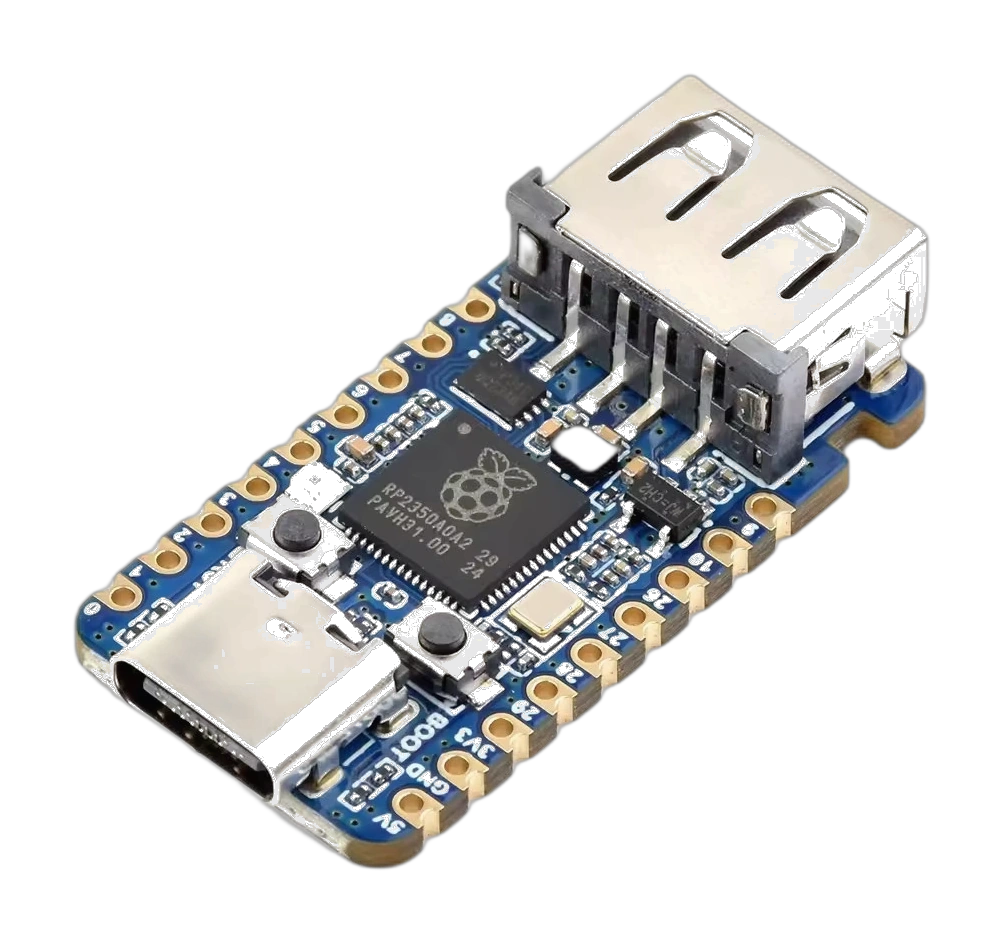
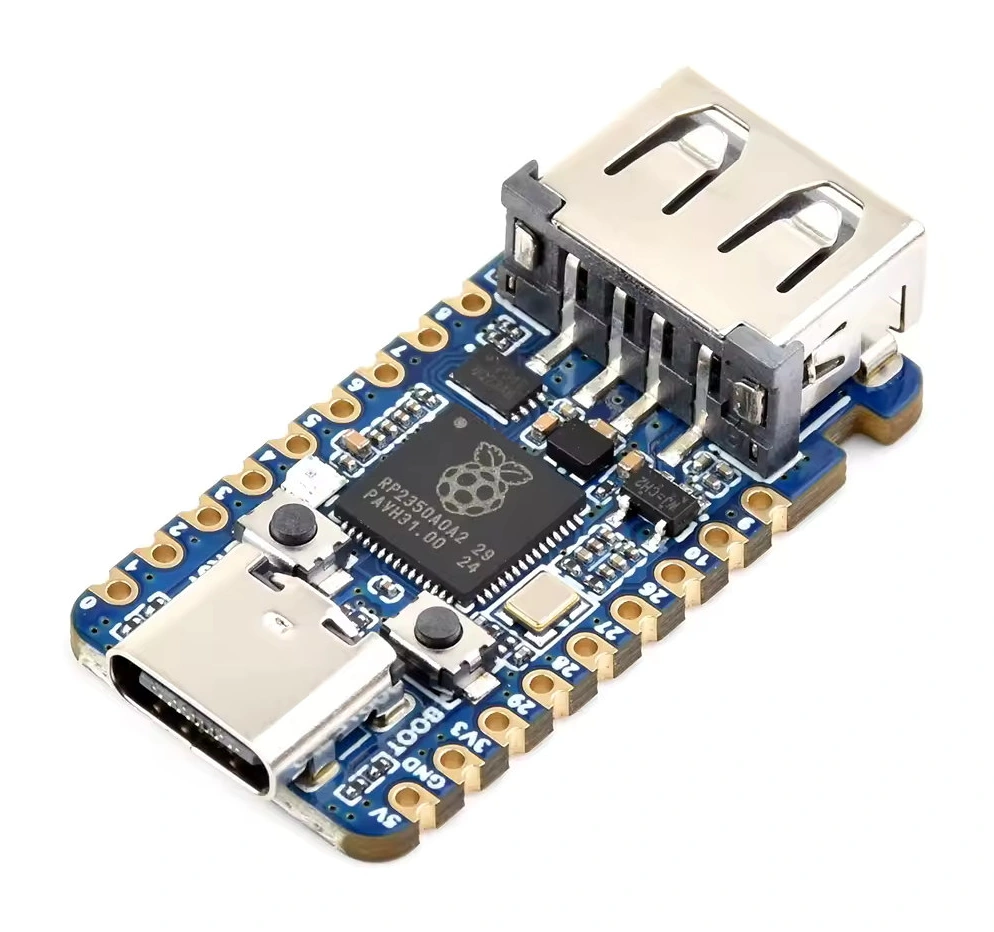
Améliore la page d’achat : 1080p, RP studio, UI Fusion V8.3
- Note écran 1080p dans le bandeau Hardware & Platform Notes
- Photo RP2350 restaurée sur fond studio blanc (sans détourage)
- Interface produit remplacée par Fusion IA V8.3 (Tuning Mouse/KB)

diff --git a/client/src/pages/Purchase.tsx b/client/src/pages/Purchase.tsx
@@ -383,7 +383,7 @@ export default function Purchase() {
                     />
                     <div className="absolute inset-0 bg-gradient-to-t from-dark-base/80 via-transparent to-transparent pointer-events-none" />
                     <div className="absolute bottom-4 left-6">
-                      <h3 className="text-xl font-display font-bold text-white neon-text">FUSION AI V8.2</h3>
+                      <h3 className="text-xl font-display font-bold text-white neon-text">FUSION IA V8.3</h3>
                       <p className="text-xs text-violet-accent font-semibold tracking-widest uppercase">Visual Processing Engine</p>
                     </div>
                   </div>
@@ -417,6 +417,7 @@ export default function Purchase() {
                       </div>
                       <p className="text-sm text-amber-100/85 leading-relaxed">
                         The <strong>Waveshare RP2350A USB Mini Development Board</strong> is required to use Fusion AI.
+                        {" "}A <strong>1080p monitor</strong> is strongly recommended for good performance.
                         {(!selectedGame || selectedGame === "Apex Legends") && (
                           <>
                             {" "}For Apex Legends, use the <strong>Steam</strong> version only — the EA App (Origin) version is not supported.
@@ -750,13 +751,13 @@ export default function Purchase() {
                   >
                     <div className="absolute -inset-[1px] rounded-xl bg-gradient-to-br from-violet-tech via-cyan-400/40 to-violet-accent opacity-60 blur-[1px] group-hover:opacity-100 transition-opacity" />
                     <div className="relative rounded-xl border border-violet-tech/50 bg-dark-base shadow-[0_0_40px_rgba(123,46,255,0.25)] overflow-hidden">
-                      <div className="px-5 pt-5 pb-2 bg-dark-base">
+                      <div className="bg-white">
                         <img
                           src="/images/rp2350a-board.webp"
                           alt="Waveshare RP2350A USB Mini Development Board — required"
-                          className="w-full h-auto object-contain block drop-shadow-[0_0_28px_rgba(123,46,255,0.35)]"
-                          width={1004}
-                          height={943}
+                          className="w-full h-auto object-contain block"
+                          width={994}
+                          height={932}
                           loading="eager"
                           decoding="async"
                         />
